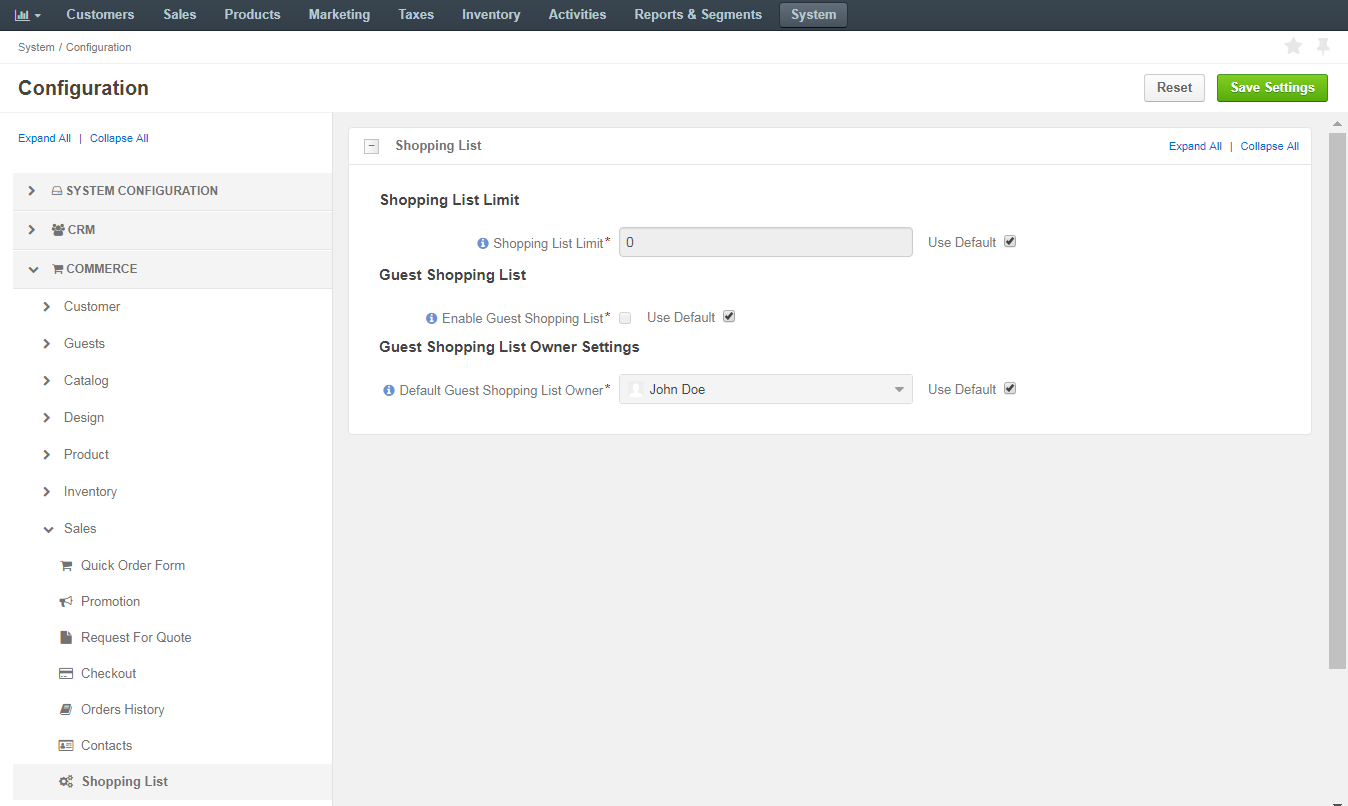
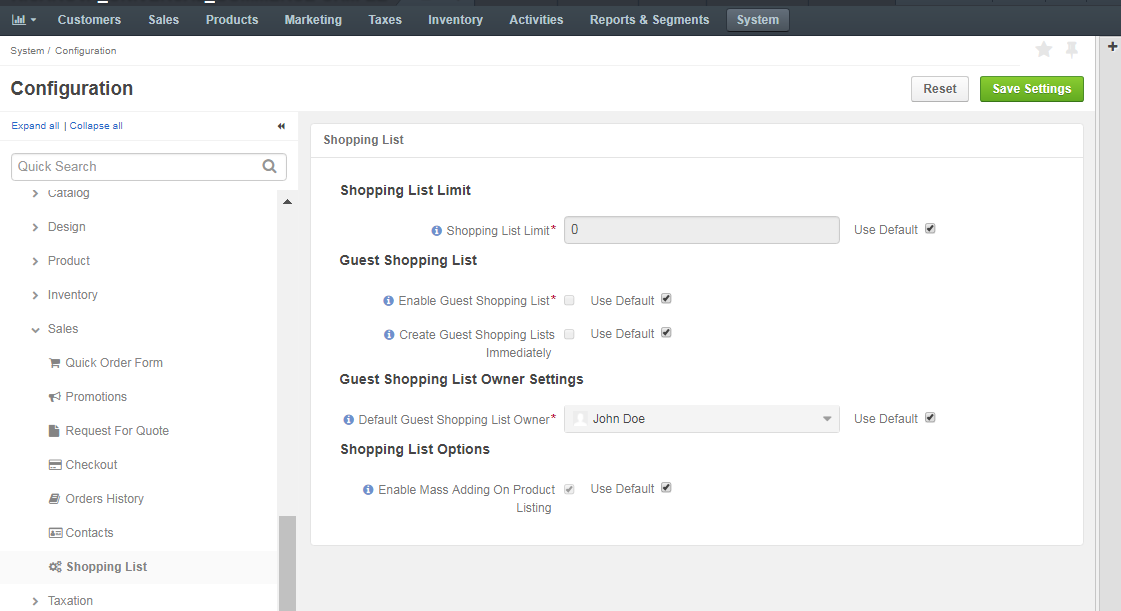
DOC-941: On Demand Guest Shopping List (2.6) (#20248)
* DOC-941: On Demand Guest Shopping Lists (2.6)

* DOC-941: WIP

* DOC-941: WIP for global setting

diff --git a/commerce/admin_guide/landing_commerce/sales/checkout/guest_access/guest_shopping_list_global.rst b/commerce/admin_guide/landing_commerce/sales/checkout/guest_access/guest_shopping_list_global.rst
@@ -13,17 +13,18 @@ To enable guest shopping lists globally:
 .. note::
    For faster navigation between the configuration menu sections, use :ref:`Quick Search <user-guide--system-configuration--quick-search>`.
 
-The following page opens:
 
 .. image:: /admin_guide/img/configuration/sales/shopping_list/ShopListGlobal.png
 
 3. In the **Shopping List Limit** section, set the number of shopping lists allowed per customer. The default value is zero. This means that no limit of shopping lists is applied.
-4. In the **Guest Shopping List** section, set whether guests are allowed to create and manage shopping lists.
+4. In the **Guest Shopping List** section, define the following options:
+ 
+   .. note:: To update any of the options, clear *Use Default* check box first.
 
-   By default, guest shopping lists are disabled.
+   * **Create Guest Shopping List** --- Set whether guests are allowed to create and manage shopping lists. By default, guest shopping lists are disabled. 
 
-   To enable guest shopping lists, clear *Use Default* and select the *Enable Guest Shopping List* check box.
-
+   * **Create Guest Shopping Lists Immediately** --- Enable this option to automatically create shopping lists for all guest users once they access the storefront. By default, this option is disabled and shopping lists are created only when guest users add at least one item to their shopping list.
+   
 5. In the **Guest Shopping List Owner Settings** section, select the user who will be the default owner of all guest shopping lists. Depending on the roles and permissions of the owner, guest shopping lists may or may not be viewed and managed by the users who are subordinated to the owner.
 
    .. note::  To enable users from the same business unit or organization (that the owner belongs to) to view and manage guest shopping lists, adjust permissions for the shopping list entity in their roles accordingly.
